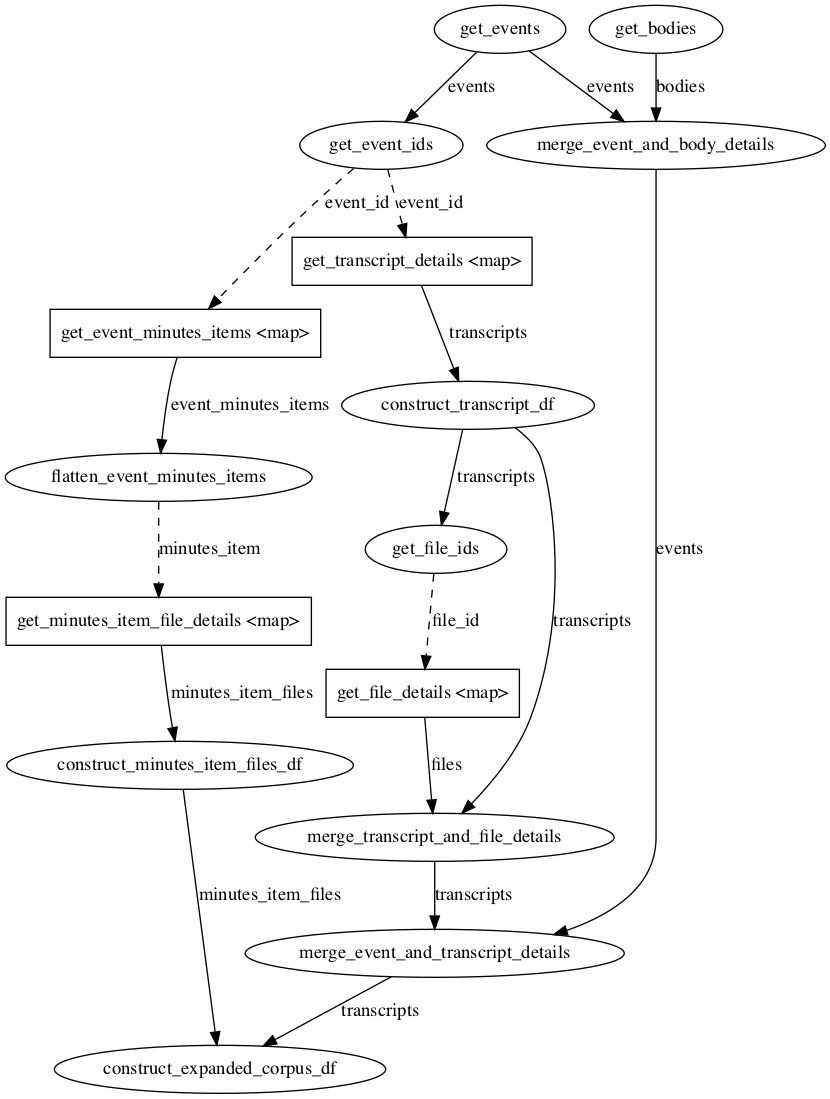
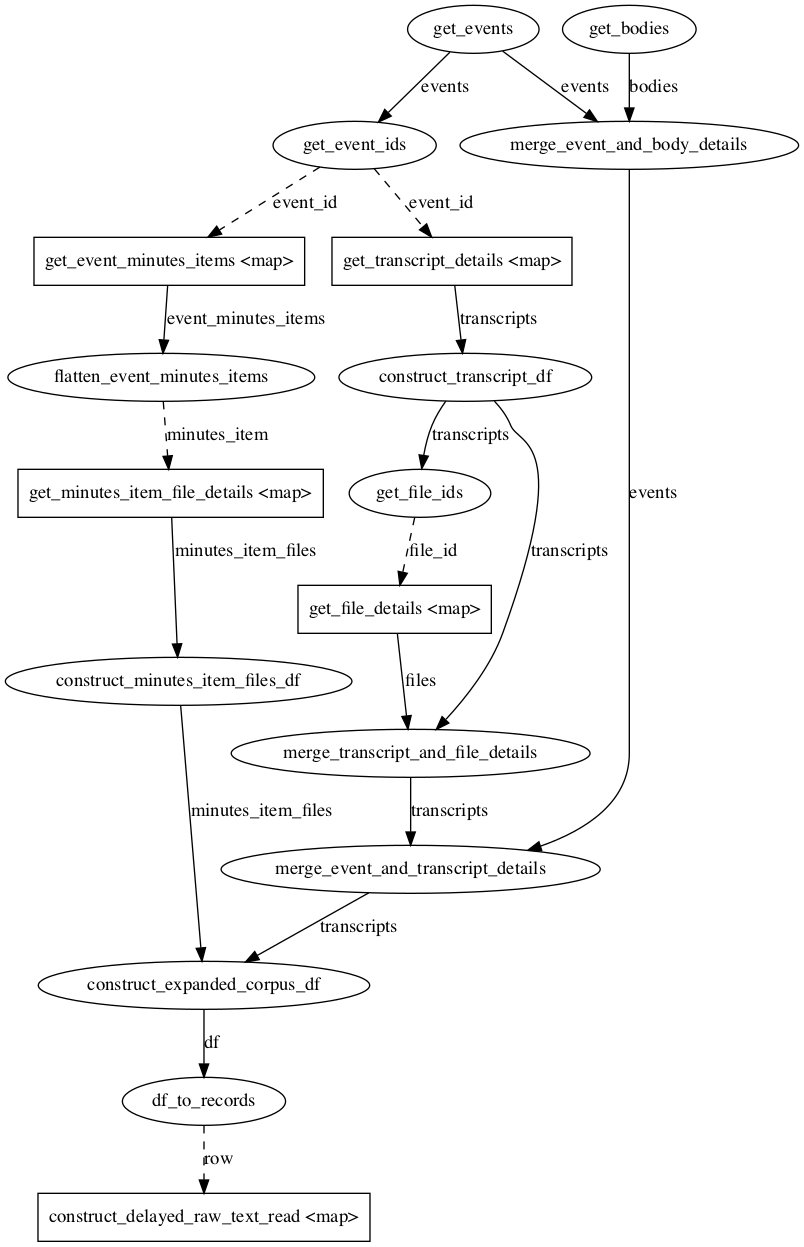
Handle download + read of corpus document

Changed region(s): [[0.0, 0.0, 0.995, 1.0], [0.7152, 0.7425, 0.7463, 0.7734]]

diff --git a/cdptools/pipelines/event_index_pipeline.py b/cdptools/pipelines/event_index_pipeline.py
@@ -4,10 +4,11 @@
 import json
 import logging
 from pathlib import Path
-from typing import Dict, List, Union
+from typing import Dict, Iterable, List, Tuple, Union
 
 import dask.config
 import pandas as pd
+from dask import delayed
 from dask_ml.feature_extraction.text import HashingVectorizer
 from distributed import Client, LocalCluster
 from prefect import Flow, task, unmapped
@@ -16,6 +17,8 @@ from tika import parser
 
 from ..databases import Database, OrderOperators
 from ..dev_utils import load_custom_object
+from ..file_stores import FileStore
+from ..indexers import Indexer
 from .pipeline import Pipeline
 
 ###############################################################################
@@ -96,7 +99,7 @@ def flatten_event_minutes_items(event_minutes_items: List[List[Dict]]) -> List[D
                     "minutes_item_id": minutes_item["minutes_item_id"],
                 })
 
-    return minutes_items
+    return minutes_items[:100]
 
 
 @task
@@ -183,10 +186,35 @@ def construct_expanded_corpus_df(
 
     # Append minutes item files df
     merged = pd.concat([transcripts, minutes_item_files], ignore_index=True)
-    merged.to_csv("expanded_corpus.csv", index=False)
+    merged.to_csv("remote_corpus.csv", index=False)
 
     return merged
 
+
+@task
+def df_to_records(df: pd.DataFrame) -> List[Dict]:
+    return df.to_dict("records")
+
+
+@task
+def construct_delayed_raw_text_read(row: Dict, fs: FileStore) -> Dict:
+    # Route to correct delayed downloader
+    # Assumes that if the URI does not start with https
+    # the file is a transcript from the file store
+    if row["uri"].startswith("https://"):
+        path = delayed(FileStore._external_resource_copy)(row["uri"], overwrite=True)
+        text = Indexer.get_text_from_file(path)
+
+    else:
+        # Download file only accepts the filename, not the full URI
+        path = delayed(fs.download_file)(row["uri"].split("/")[-1], overwrite=True)
+        text = delayed(Indexer.get_raw_transcript)(path)
+
+    return {
+        "event_id": row["event_id"],
+        "path": path,
+        "text": text,
+    }
 
 ###############################################################################
 
@@ -248,11 +276,18 @@ class EventIndexPipeline(Pipeline):
             )
             minutes_item_files = construct_minutes_item_files_df(all_events_mifs)
 
+            # Merge dataframes
             events = merge_event_and_body_details(events, bodies)
             transcripts = merge_transcript_and_file_details(transcripts, files)
             transcripts = merge_event_and_transcript_details(events, transcripts)
-            expanded_corpus = construct_expanded_corpus_df(
+            remote_corpus = construct_expanded_corpus_df(
                 transcripts, minutes_item_files
+            )
+
+            # Construct delayed text get
+            rows = df_to_records(remote_corpus)
+            read_corpus = construct_delayed_raw_text_read.map(
+                rows, fs=unmapped(self.file_store)
             )
 
         # Configure dask config
@@ -269,7 +304,14 @@ class EventIndexPipeline(Pipeline):
         log.info(f"Dashboard available at: {client.dashboard_link}")
 
         # Run
-        flow.run(executor=DaskExecutor(address=cluster.scheduler_address))
+        state = flow.run(executor=DaskExecutor(address=cluster.scheduler_address))
 
         # Visualize
         flow.visualize(filename="event-index-pipeline", format="png")
+
+        items = state.result[
+            flow.get_tasks("construct_delayed_raw_text_read")[0]
+        ].result
+        print(items[0])
+        items[0]["text"] = items[0]["text"].compute()
+        print(items[0])

diff --git a/cdptools/indexers/indexer.py b/cdptools/indexers/indexer.py
@@ -11,6 +11,7 @@ from pathlib import Path
 from typing import Dict, List, Union
 
 from nltk.stem import PorterStemmer
+from tika import parser
 
 from ..sr_models.constants import TranscriptFormats
 from . import exceptions
@@ -105,6 +106,17 @@ class Indexer(ABC):
             raise exceptions.UnrecognizedTranscriptFormatError(transcript_path)
 
         return transcript
+
+    @staticmethod
+    def get_text_from_file(path: Union[str, Path]) -> str:
+        # Ensure path exists
+        path = Path(path).resolve(strict=True)
+
+        # Parse
+        parsed = parser.from_file(str(path))
+
+        # Sometimes the content isn't a supported type by tika 🤷
+        return parsed.get("content", None)
 
     @staticmethod
     def term_is_end_of_sentence(term: str) -> bool:

diff --git a/cdptools/file_stores/gcs_file_store.py b/cdptools/file_stores/gcs_file_store.py
@@ -3,14 +3,13 @@
 
 import logging
 import os
+from concurrent.futures import ThreadPoolExecutor
 from pathlib import Path
 from typing import List, Optional, Union
 
 import requests
-from google.cloud import storage
 from google.api_core.page_iterator import Page
-
-from concurrent.futures import ThreadPoolExecutor
+from google.cloud import storage
 
 from . import exceptions
 from .file_store import FileStore
